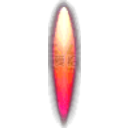
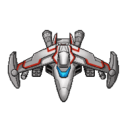
config

diff --git a/CarControlCode/robot_config.py b/CarControlCode/robot_config.py
@@ -16,7 +16,7 @@ def clamp(value, low, high):
 # 硬件端口与运行模式
 # =============================================================================
 
-RUN_MODE = "multi"  # 可选值："idle" | "ps2" | "line_follow" | "debug" | "multi"
+RUN_MODE = "line_follow"  # 可选值："idle" | "ps2" | "line_follow" | "debug" | "multi"
 
 # UART 接线。
 SERVO_UART_ID = 2
@@ -96,7 +96,7 @@ STEER_ANGLE_MAX_DEG = 90.0
 CAMERA_ANGLE_MIN_DEG = -90.0  # 相机舵机。
 CAMERA_ANGLE_MAX_DEG = 0.0
 CAMERA_INIT_ANGLE_DEG = 0.0  # 相机上电复位角度，同时作为点动控制的初始状态。
-CAMERA_L3_ANGLE_DEG = -74.0  # multi 模式下 R3 前按 L3 时的相机角度。
+CAMERA_L3_ANGLE_DEG = -90.0  # multi 模式下 R3 前按 L3 时的相机角度。
 ARM_ROLL_MIN_DEG = -180.0  # 机械臂 Roll 舵机。
 ARM_ROLL_MAX_DEG = 180.0
 ARM_PITCH1_MIN_DEG = -90.0  # 机械臂 Pitch1 舵机。
@@ -134,11 +134,11 @@ MULTI_GRAB_ROW1_ROLL_DEG = 2.4
 MULTI_GRAB_ROW1_PITCH1_DEG = -63.9
 MULTI_GRAB_ROW1_PITCH2_DEG = -107
 MULTI_GRAB_ROW1_PITCH3_DEG = 0.0
-MULTI_GRAB_ROW2_ROLL_DEG = 2.4
+MULTI_GRAB_ROW2_ROLL_DEG = 1.0
 MULTI_GRAB_ROW2_PITCH1_DEG = -71
 MULTI_GRAB_ROW2_PITCH2_DEG = -83.0
 MULTI_GRAB_ROW2_PITCH3_DEG = -10
-MULTI_GRAB_ROW3_ROLL_DEG = 2.4
+MULTI_GRAB_ROW3_ROLL_DEG = 1.2
 MULTI_GRAB_ROW3_PITCH1_DEG = -79.0
 MULTI_GRAB_ROW3_PITCH2_DEG = -55.0
 MULTI_GRAB_ROW3_PITCH3_DEG = -28.8